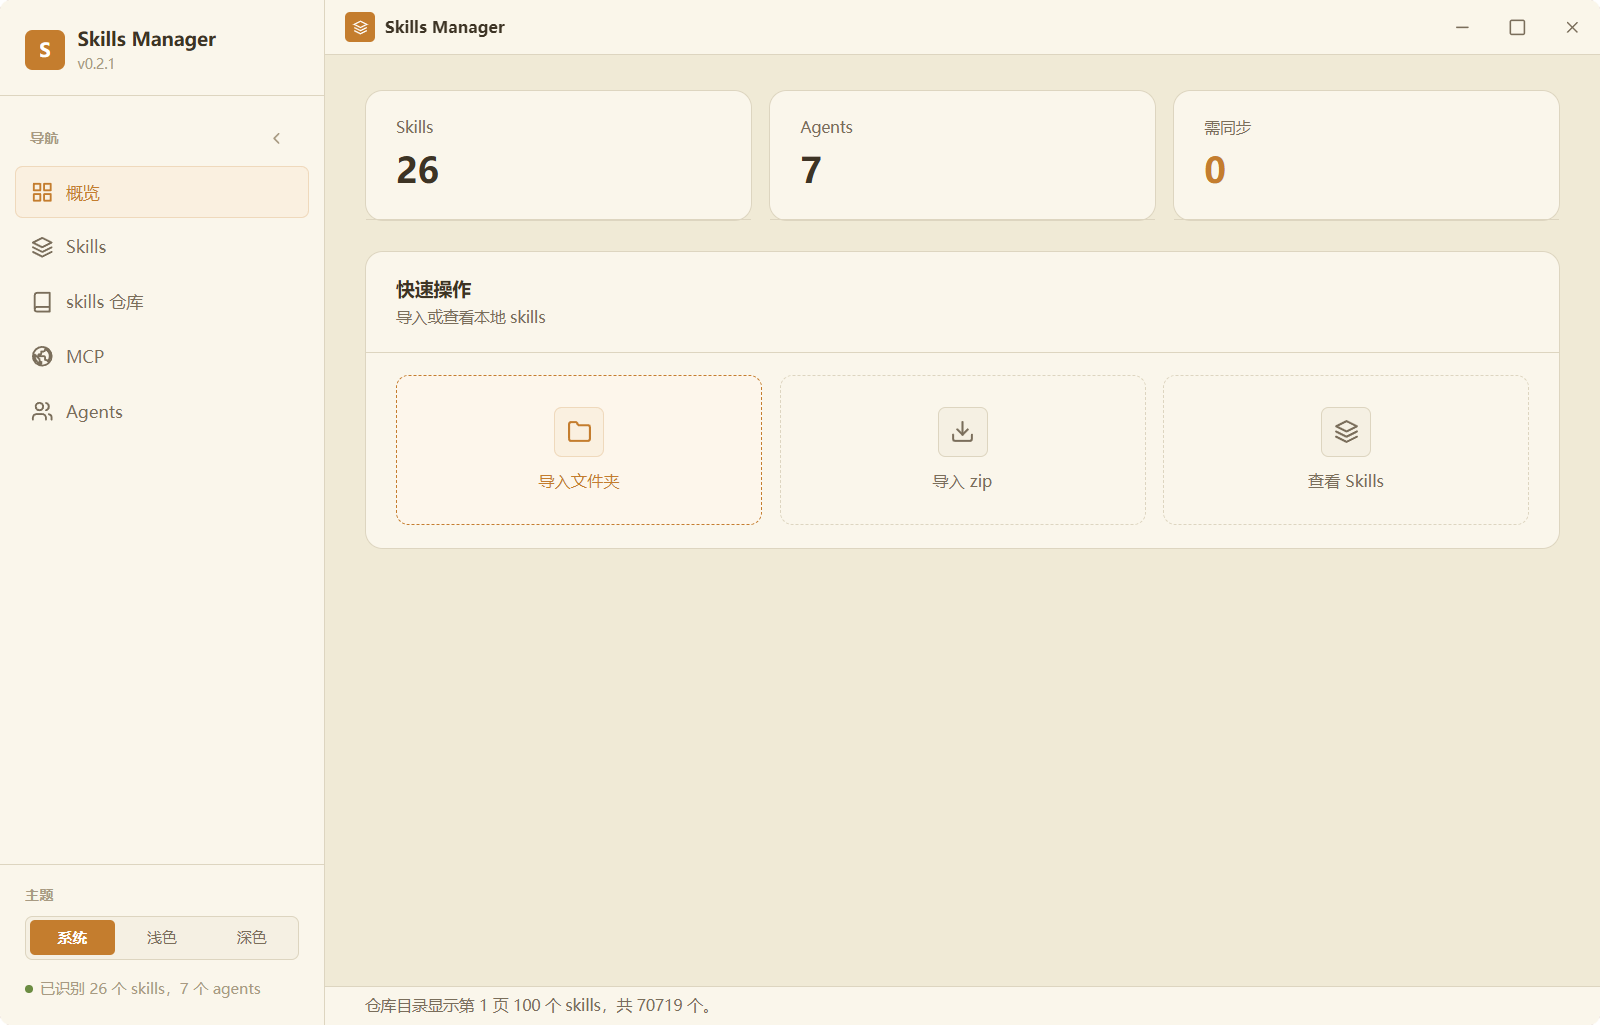
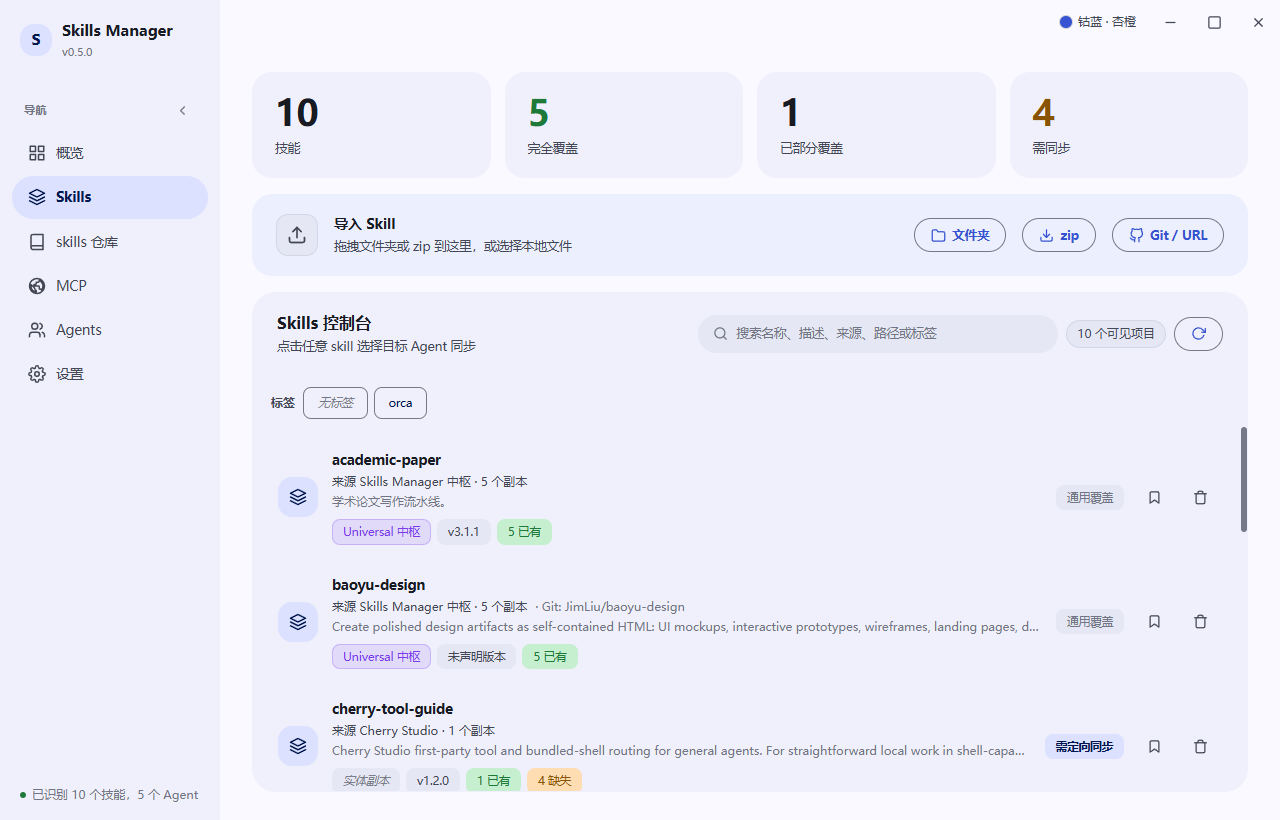
chore(release): 发布 0.5.0 并更新 README 截图
- 同步 package.json / tauri.conf.json / Cargo.toml 版本为 0.5.0
- 新增 RELEASE_NOTES.md 作为 v0.5.0 发布说明
- README 主图换为新版界面，其余主题截图移至 assets/SCREENSHOTS(.en).md
- .gitignore 忽略 designs/

diff --git a/RELEASE_NOTES.md b/RELEASE_NOTES.md
@@ -1,0 +1,37 @@
+## Skills Manager v0.5.0
+
+相比 `0.4.1`，本版本带来 **多主题界面、Skills 多设备同步、exe 旁统一中枢与外部 Agent 接入**，并完成一轮全量安全与并发修复。
+
+### 全新主题与组件风格
+- **7 个可随时切换的主题**：默认 Material 3 Expressive「钴蓝 · 杏橙」；另有 M3「莓果 · 湖青」「青柠 · 鸢尾」「深青 · 珊瑚」、Linear / Raycast，以及保留的「清爽极简」「经典暖色」。
+- **主题同时改变配色与组件形态**：M3 主题使用胶囊按钮、按压圆角收缩、涟漪反馈、无描边色调卡片与色块导航；Linear 主题紧凑精密，发丝描边与 1px 顶部高光。
+- **标题栏快捷切换**：右上角新增主题菜单，可直接切换主题和明暗模式；设置页按 Material 3 / Linear / 经典分组展示主题卡片。每个主题都支持浅色、深色与跟随系统。
+
+### Skills 多设备同步
+- 支持 **S3 兼容网关** 或 **本地目录（`local://`）** 作为同步端点，内容加密后上传；Secret Key 与加密口令保存在系统钥匙串，不写入 `state.json`。
+- 冲突检测（`bothModified` / `deleteVsModify`）与解决（保留本地 / 采用远端 / 重命名）；标签与「无需全覆盖」标记按最新时间戳覆盖（LWW）。
+- 提供 `sync_local_demo` 单机双设备演示与 `sync_` 集成测试。
+
+### 统一中枢安装与分发
+- 中枢固定为 `SkillsManager.exe` 旁的 `skills/`。所有安装、导入和同步都先进入中枢，可暂不选择 Agent，再由每台设备自行选择分发目标。
+- 分发优先软链接，其次 Junction，最后复制；取消选择只移除可核实的管理器分发，Agent 自装的同名 Skill 会保留。
+- 旧中枢只迁移能由安装记录和指纹确认的 Skill，原件保留。
+
+### 外部 Agent 接入
+- 内置 stdio MCP Server（`SkillsManager.exe mcp`）与命令行工具，Claude Code、Cursor、Windsurf 等 Agent 可远程管理 Skills 与 MCP；设置页可一键接入本机已检测到的 Agent。
+- 支持从 GitHub 仓库、`/tree/...` 子目录链接或本地路径安装 Skill 与 MCP 配置。
+- OpenCode 配置检测优化，内置 Agent 类型自动补全默认参数。
+
+### 安全与稳定性修复
+- 修复同步加密 Nonce 复用问题，区分内容寻址与清单加密。
+- 修复 Git URL 参数注入，加强 zip 解压限制与路径安全校验。
+- 修复跨进程 `state.json` 并发写入、软链接备份回滚、同步墓碑持久化与 GC 熔断等问题。
+- 优化前端状态联动、Catalog 请求防覆盖与 MCP 表单交互。
+
+### 兼容性
+- 无需手动迁移；已有 Agent、MCP 配置、标签与主题偏好会保留。之前选择「清爽极简」或「经典暖色」的用户升级后保持原主题。
+- 程序目录需允许当前用户写入，否则中枢创建与 Skill 安装会报错。
+
+### 附件说明
+- `SkillsManager.exe`：便携单文件版，适合本地快速验证与日常使用。
+- `SkillsManager-v0.5.0-windows-portable.zip`：便携发布包（含说明文档）。

diff --git a/README_EN.md b/README_EN.md
@@ -5,8 +5,10 @@
 Skills Manager is a local Windows desktop tool for managing Agent Skills and MCP server configuration across multiple AI clients. It scans local agent directories, compares skill and MCP coverage, installs skills from local files or skills repositories, and helps sync configuration without manually copying folders or editing each config file one by one.
 
 <p align="center">
-  <img src="assets/preview-overview.png" alt="Skills Manager overview preview" width="900" />
+  <img src="assets/preview-overview.png" alt="Skills Manager Skills console (Material 3 · Cobalt · Apricot)" width="900" />
 </p>
+
+<p align="center"><a href="assets/SCREENSHOTS.en.md">More theme screenshots →</a></p>
 
 ## Features
 
@@ -20,7 +22,7 @@ Skills Manager is a local Windows desktop tool for managing Agent Skills and MCP
 - **Git / GitHub URL Skill & MCP Installation:** inspect GitHub repositories, `/tree/main/...` subdirectories, and local folders for Skills and MCP configuration. Select both kinds from one source and install skills while writing MCP configuration to selected compatible agents. MCP commands still need their runtime dependencies to be available.
 - **No-tag filtering:** filter skills and agents lists by "no tag" to quickly locate uncategorized items.
 - **Independent view scrolling:** Skills, MCP, and Agents view lists scroll independently, the page no longer scrolls as a whole.
-- **Dual Styles & Theme Switching:** provides "Clean Minimal (Modern Blue)" and "Classic Warm (Amber Gold)" visual styles, supporting light mode, dark mode, and system preference with local persistence.
+- **Multiple Themes:** ships 7 themes, defaulting to Material 3 Expressive "Cobalt · Apricot"; also M3 "Berry · Lagoon", "Lime · Iris", "Teal · Coral", Linear / Raycast, and the classic "Clean Minimal" and "Classic Warm". Each theme changes both colors and component shapes, works in light, dark, or system mode, and can be switched anytime from Settings or the title bar, with local persistence.
 - **Sectioned Settings:** the Settings view uses single-page anchor navigation for common preferences, sync connection, Agent targets, maintenance, and advanced options. Sensitive connection details stay collapsed by default while save state and the save action remain visible.
 
 ## Tech Stack
@@ -167,4 +169,4 @@ The script runs:
 npm run native:build -- --no-bundle
 ```
 
-The portable build outputs `src-tauri\target\release\skill-sync-manager.exe`. The `release/` folder's `SkillsManager-v0.4.1-windows-portable.zip` is the release artifact, suitable for uploading to GitHub Releases; the root-level `SkillsManager.exe` is useful for quick local verification.
+The portable build outputs `src-tauri\target\release\skill-sync-manager.exe`. The `release/` folder's `SkillsManager-v0.5.0-windows-portable.zip` is the release artifact, suitable for uploading to GitHub Releases; the root-level `SkillsManager.exe` is useful for quick local verification.

diff --git a/assets/README.en.md b/assets/README.en.md
@@ -5,8 +5,10 @@
 Skills Manager is a local Windows desktop tool for managing Agent Skills and MCP server configuration across multiple AI clients. It scans local agent directories, compares skill and MCP coverage, installs skills from local files or skills repositories, and helps sync configuration without manually copying folders or editing each config file one by one.
 
 <p align="center">
-  <img src="assets/preview-overview.png" alt="Skills Manager overview preview" width="900" />
+  <img src="assets/preview-overview.png" alt="Skills Manager Skills console (Material 3 · Cobalt · Apricot)" width="900" />
 </p>
+
+<p align="center"><a href="SCREENSHOTS.en.md">More theme screenshots →</a></p>
 
 ## Features
 
@@ -20,7 +22,7 @@ Skills Manager is a local Windows desktop tool for managing Agent Skills and MCP
 - **Git / GitHub URL Skill & MCP Installation:** inspect GitHub repositories, `/tree/main/...` subdirectories, and local folders for Skills and MCP configuration. Select both kinds from one source and install skills while writing MCP configuration to selected compatible agents. MCP commands still need their runtime dependencies to be available.
 - **No-tag filtering:** filter skills and agents lists by "no tag" to quickly locate uncategorized items.
 - **Independent view scrolling:** Skills, MCP, and Agents view lists scroll independently, the page no longer scrolls as a whole.
-- **Dual Styles & Theme Switching:** provides "Clean Minimal (Modern Blue)" and "Classic Warm (Amber Gold)" visual styles, supporting light mode, dark mode, and system preference with local persistence.
+- **Multiple Themes:** ships 7 themes, defaulting to Material 3 Expressive "Cobalt · Apricot"; also M3 "Berry · Lagoon", "Lime · Iris", "Teal · Coral", Linear / Raycast, and the classic "Clean Minimal" and "Classic Warm". Each theme changes both colors and component shapes, works in light, dark, or system mode, and can be switched anytime from Settings or the title bar, with local persistence.
 - **Sectioned Settings:** the Settings view uses single-page anchor navigation for common preferences, sync connection, Agent targets, maintenance, and advanced options. Sensitive connection details stay collapsed by default while save state and the save action remain visible.
 
 ## Tech Stack
@@ -167,4 +169,4 @@ The script runs:
 npm run native:build -- --no-bundle
 ```
 
-The portable build outputs `src-tauri\target\release\skill-sync-manager.exe`. The `release/` folder's `SkillsManager-v0.4.1-windows-portable.zip` is the release artifact, suitable for uploading to GitHub Releases; the root-level `SkillsManager.exe` is useful for quick local verification.
+The portable build outputs `src-tauri\target\release\skill-sync-manager.exe`. The `release/` folder's `SkillsManager-v0.5.0-windows-portable.zip` is the release artifact, suitable for uploading to GitHub Releases; the root-level `SkillsManager.exe` is useful for quick local verification.

diff --git a/assets/SCREENSHOTS.md b/assets/SCREENSHOTS.md
@@ -1,0 +1,25 @@
+# Skills Manager 截图
+
+[English](SCREENSHOTS.en.md) · [返回 README](../README.md)
+
+Skills Manager 内置 7 个主题：Material 3 Expressive 的「钴蓝 · 杏橙」（默认）、「莓果 · 湖青」「青柠 · 鸢尾」「深青 · 珊瑚」，Linear / Raycast，以及经典的「清爽极简」「经典暖色」。每个主题都支持浅色、深色与跟随系统，可在标题栏右上角或设置页随时切换。
+
+## Skills 控制台 · Material 3 · 钴蓝 · 杏橙（默认，浅色）
+
+![Skills 控制台（Material 3 · 钴蓝 · 杏橙）](preview-overview.png)
+
+## Material 3 · 莓果 · 湖青（深色）
+
+![Material 3 · 莓果 · 湖青（深色）](screenshots/theme-m3-berry-dark.png)
+
+## Linear / Raycast（深色）
+
+![Linear / Raycast（深色）](screenshots/theme-linear-dark.png)
+
+## 标题栏主题菜单 · Material 3 · 青柠 · 鸢尾
+
+![标题栏主题菜单（青柠 · 鸢尾）](screenshots/theme-switcher-m3-lime.png)
+
+## 设置页主题选择 · Material 3 · 深青 · 珊瑚
+
+![设置页主题选择（深青 · 珊瑚）](screenshots/settings-themes-m3-teal.png)

diff --git a/assets/SCREENSHOTS.en.md b/assets/SCREENSHOTS.en.md
@@ -1,0 +1,25 @@
+# Skills Manager Screenshots
+
+[中文](SCREENSHOTS.md) · [Back to README](../README_EN.md)
+
+Skills Manager ships 7 themes: Material 3 Expressive "Cobalt · Apricot" (default), "Berry · Lagoon", "Lime · Iris", "Teal · Coral", Linear / Raycast, and the classic "Clean Minimal" and "Classic Warm". Every theme supports light, dark, and system mode, and can be switched anytime from the title bar or Settings.
+
+## Skills console · Material 3 · Cobalt · Apricot (default, light)
+
+![Skills console (Material 3 · Cobalt · Apricot)](preview-overview.png)
+
+## Material 3 · Berry · Lagoon (dark)
+
+![Material 3 · Berry · Lagoon (dark)](screenshots/theme-m3-berry-dark.png)
+
+## Linear / Raycast (dark)
+
+![Linear / Raycast (dark)](screenshots/theme-linear-dark.png)
+
+## Title bar theme menu · Material 3 · Lime · Iris
+
+![Title bar theme menu (Lime · Iris)](screenshots/theme-switcher-m3-lime.png)
+
+## Theme picker in Settings · Material 3 · Teal · Coral
+
+![Theme picker in Settings (Teal · Coral)](screenshots/settings-themes-m3-teal.png)
